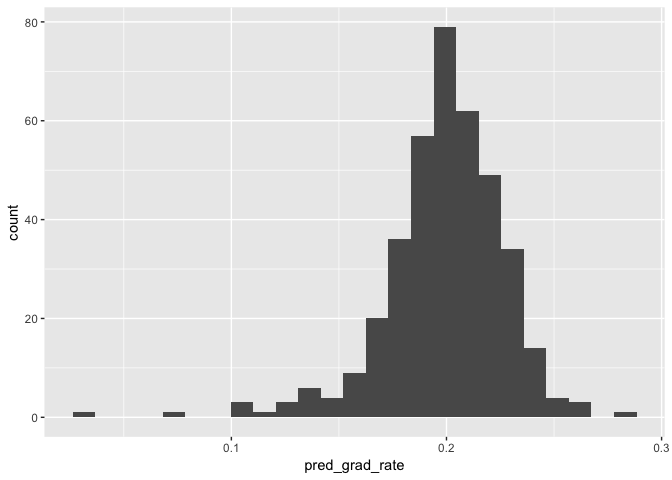
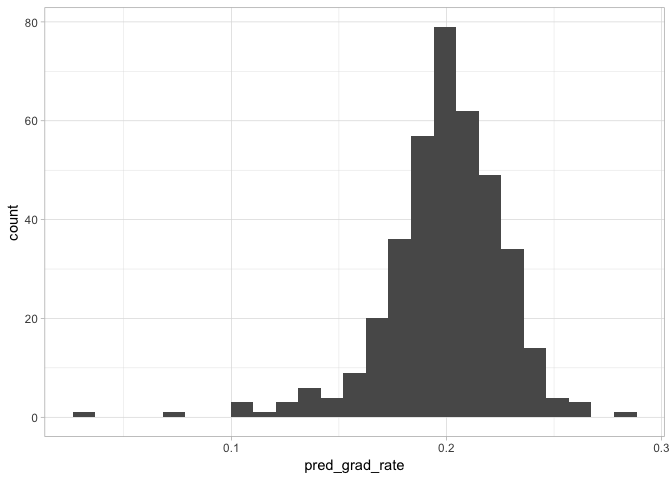
small theming

diff --git a/classifier.md b/classifier.md
@@ -85,7 +85,8 @@ training_with_predictions %>%
 #histogram of scaled predictions
 training_with_predictions %>% 
   ggplot() +
-  geom_histogram(aes(x = pred_grad_rate), bins = 25)
+  geom_histogram(aes(x = pred_grad_rate), bins = 25) +
+  theme_light() 
 ```
 
 ![](classifier_files/figure-gfm/add%20predictions%20back%20to%20training%20set-2.png)<!-- -->
@@ -114,6 +115,7 @@ testing_with_predictions %>%
   geom_histogram(aes(x = pred_grad_rate), bins = 25) +
   geom_vline(aes(xintercept = 0.2162771), color = "blue") +
   geom_vline(aes(xintercept = 0.195), color = "red") +
+  theme_light() +
   labs(caption = "Red line is BC actual graduation rate,
   Blue line is BC predicted grad rate")
 ```
